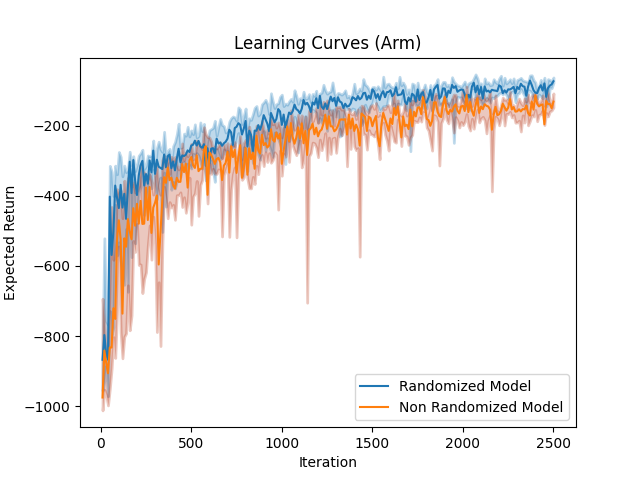
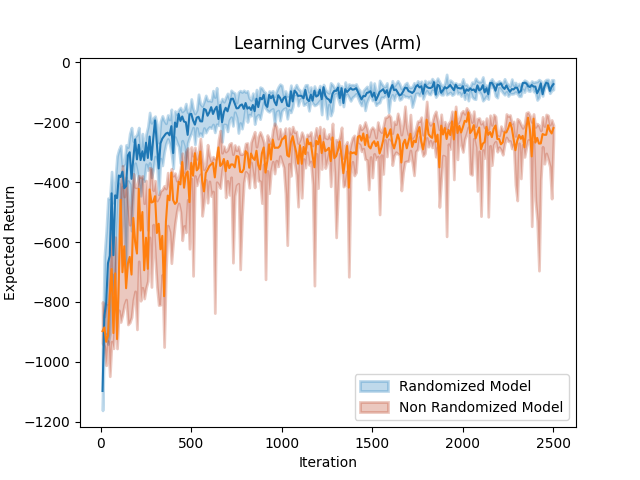
Final changes

diff --git a/src/Arm Environment/arm_sim2real.py b/src/Arm Environment/arm_sim2real.py
@@ -5,7 +5,6 @@ from gym.utils import seeding
 from stable_baselines3 import TD3
 from stable_baselines3.common.monitor import Monitor
 from stable_baselines3.common.noise import NormalActionNoise
-from scipy.spatial.distance import euclidean
 import RobotDART as rd
 from pylab import *
 import numpy as np
@@ -78,7 +77,7 @@ class ArmEnv(gym.Env):
         self.state = np.array([current_pos, current_vel])
 
         # Reward function
-        reward = -euclidean(current_pos, self.target_pos)
+        reward = -np.linalg.norm(current_pos-self.target_pos)
 
         self._step += 1
         done = False
@@ -108,14 +107,13 @@ class ArmEnv(gym.Env):
         pos[1] = self.np_random.uniform(-self.max_pos_rest, self.max_pos_rest)
         pos[2] = self.np_random.uniform(-self.max_pos_rest, self.max_pos_rest)
         pos[3] = self.np_random.uniform(-self.max_pos_rest, self.max_pos_rest)
-
         return pos
 
     def randomize(self, randomization):
         if randomization:
-            # Randomize arm link's masses +-80%
-            mass_low = np.array([0.04, 0.06, 0.04, 0.03])
-            mass_high = np.array([0.34, 0.52, 0.40, 0.29])
+            # Randomize arm link's masses in [0, 1]
+            mass_low = np.array([0., 0., 0., 0.])
+            mass_high = np.array([1., 1., 1., 1.])
             mass = self.np_random.uniform(low=mass_low, high=mass_high)
 
             self.robot.set_body_mass("arm_link_1", mass[0])
@@ -123,11 +121,11 @@ class ArmEnv(gym.Env):
             self.robot.set_body_mass("arm_link_3", mass[2])
             self.robot.set_body_mass("arm_link_4", mass[3])
         else:
-            # Set fixed values +80%
-            self.robot.set_body_mass("arm_link_1", 0.34)  # 0.19
-            self.robot.set_body_mass("arm_link_2", 0.52)  # 0.29
-            self.robot.set_body_mass("arm_link_3", 0.40)  # 0.22
-            self.robot.set_body_mass("arm_link_4", 0.29)  # 0.16
+            # Set fixed values to 2
+            self.robot.set_body_mass("arm_link_1", 2.)  # 0.19
+            self.robot.set_body_mass("arm_link_2", 2.)  # 0.29
+            self.robot.set_body_mass("arm_link_3", 2.)  # 0.22
+            self.robot.set_body_mass("arm_link_4", 2.)  # 0.16
 
     def seed(self, seed=None):
         self.np_random, seed = seeding.np_random(seed)
@@ -198,7 +196,7 @@ class TestArmEnv(gym.Env):
         self.state = np.array([current_pos, current_vel])
 
         # Reward function
-        reward = -euclidean(current_pos, self.target_pos)
+        reward = -np.linalg.norm(current_pos-self.target_pos)
 
         self._step += 1
         done = False
@@ -225,7 +223,6 @@ class TestArmEnv(gym.Env):
         pos[1] = self.np_random.uniform(-self.max_pos_rest, self.max_pos_rest)
         pos[2] = self.np_random.uniform(-self.max_pos_rest, self.max_pos_rest)
         pos[3] = self.np_random.uniform(-self.max_pos_rest, self.max_pos_rest)
-
         return pos
 
     def seed(self, seed=None):
@@ -299,9 +296,9 @@ for i in range(10):
     n_actions = randomized_env.action_space.shape[-1]
     action_noise = NormalActionNoise(mean=np.zeros(n_actions), sigma=0.1 * np.ones(n_actions))
 
-    randomized_model = TD3("MlpPolicy", randomized_env, action_noise=action_noise, verbose=1)
+    randomized_model = TD3("MlpPolicy", randomized_env, action_noise=action_noise, verbose=1, device="cuda")
 
-    timesteps = int(500000)
+    timesteps = int(625000)
     # For every 10 episodes of learning, test to the real environment (with domain randomization)
     randomized_model.learn(total_timesteps=timesteps, log_interval=500, eval_env=test_rand_mon, eval_freq=2500, n_eval_episodes=1, eval_log_path="./logs/Randomized/")
 
@@ -319,7 +316,7 @@ for i in range(10):
     n_actions = non_randomized_env.action_space.shape[-1]
     action_noise = NormalActionNoise(mean=np.zeros(n_actions), sigma=0.1 * np.ones(n_actions))
 
-    non_randomized_model = TD3("MlpPolicy", non_randomized_env, action_noise=action_noise, verbose=1)
+    non_randomized_model = TD3("MlpPolicy", non_randomized_env, action_noise=action_noise, verbose=1, device="cuda")
 
     # For every 10 episodes of learning, test to the real environment (without domain randomization)
     non_randomized_model.learn(total_timesteps=timesteps, log_interval=500, eval_env=test_nonrand_mon, eval_freq=2500, n_eval_episodes=1, eval_log_path="./logs/NonRandomized/")
@@ -339,7 +336,7 @@ rwd_med_list, rwd_perc_25, rwd_perc_75 = perc(reward_list)
 rwd_med_list_non, rwd_perc_25_non, rwd_perc_75_non = perc(reward_list_non)
 
 # Iteration list
-iter_list = list(range(10, 2010, 10))
+iter_list = list(range(10, 2510, 10))
 
 plt.fill_between(iter_list, rwd_perc_25, rwd_perc_75, alpha=0.25, linewidth=2, color='#006BB2')
 plt.fill_between(iter_list, rwd_perc_25_non, rwd_perc_75_non, alpha=0.25, linewidth=2, color='#B22400')
